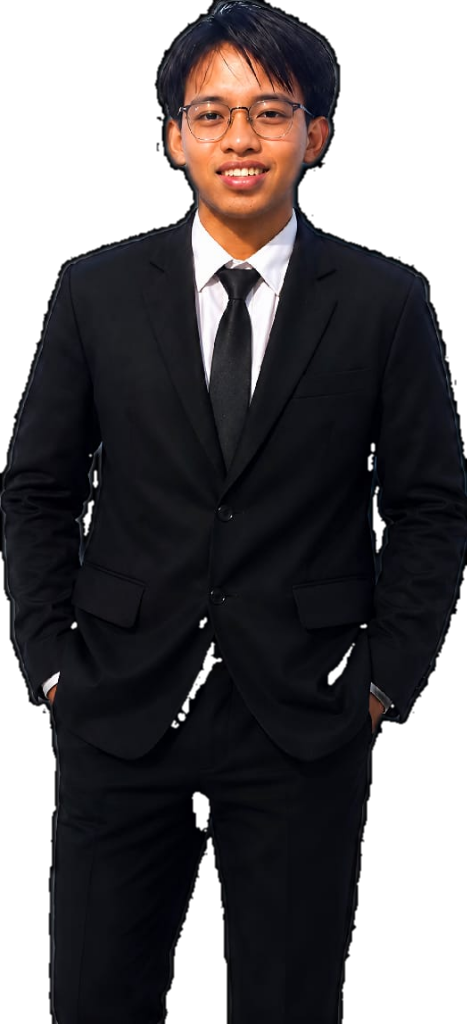
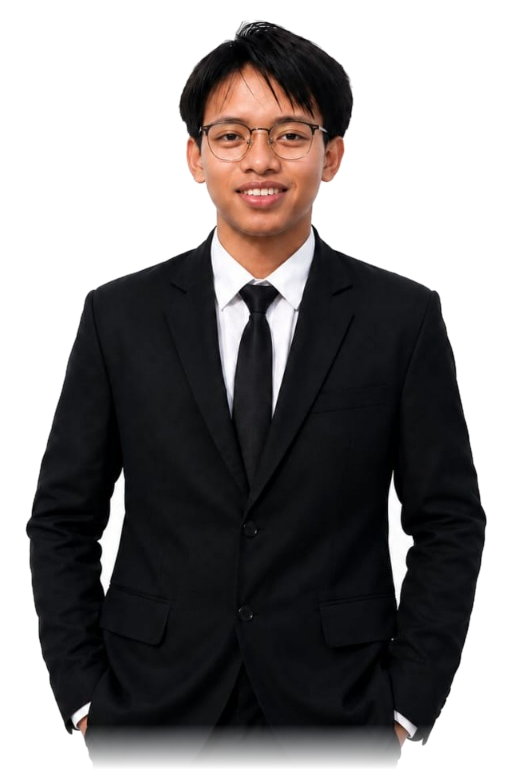
feat(hero): integrate pristine studio portrait cutout with smooth gradient fade and ambient lighting

diff --git a/lib/sections/home_section.dart b/lib/sections/home_section.dart
@@ -450,13 +450,24 @@ class HomeSection extends StatelessWidget {
             // 4. Main Portrait Photo (Seamless Cutout integrating directly with template)
             Positioned(
               bottom: 0,
-              child: SizedBox(
+              child: Container(
                 width: photoWidth,
                 height: photoHeight,
+                decoration: BoxDecoration(
+                  boxShadow: [
+                    BoxShadow(
+                      color: const Color(0xFF6366F1).withValues(alpha: 0.12),
+                      blurRadius: 36,
+                      spreadRadius: -4,
+                      offset: const Offset(0, 16),
+                    ),
+                  ],
+                ),
                 child: Image.asset(
                   'assets/images/profile_suit_cutout.png',
                   fit: BoxFit.contain,
                   alignment: Alignment.bottomCenter,
+                  filterQuality: FilterQuality.high,
                   errorBuilder: (_, __, ___) {
                     if (profile.photoUrl.isNotEmpty && profile.photoUrl.startsWith('http')) {
                       return Image.network(
